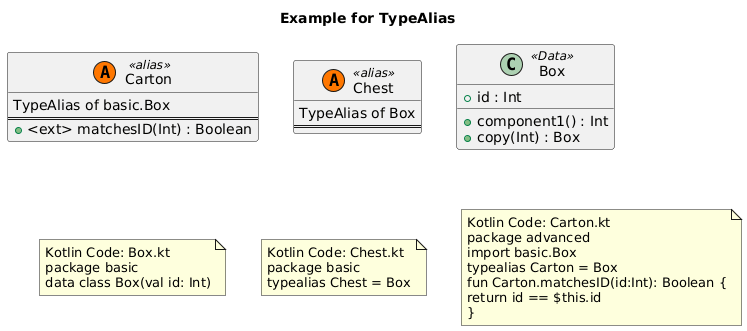
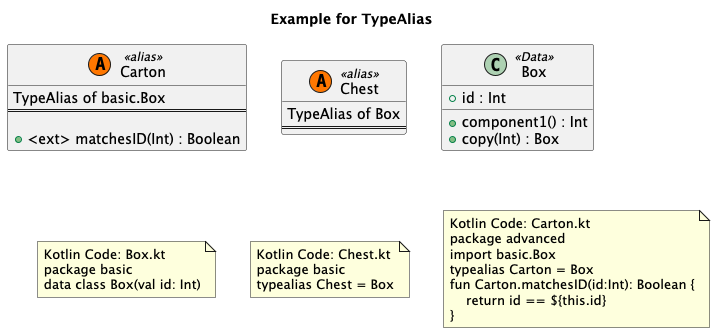
Fix missing brackets

diff --git a/pumlgenerator/src/test/kotlin/docgeneration/GenerateExamplesForDoc.kt b/pumlgenerator/src/test/kotlin/docgeneration/GenerateExamplesForDoc.kt
@@ -241,7 +241,7 @@ class GenerationForDoc : CompilationTest() {
             import basic.Box
             typealias Carton = Box
             fun Carton.matchesID(id:Int): Boolean {
-                return id == ${'$'}this.id 
+                return id == ${'$'}{this.id} 
             }
         """.trimIndent()
 
